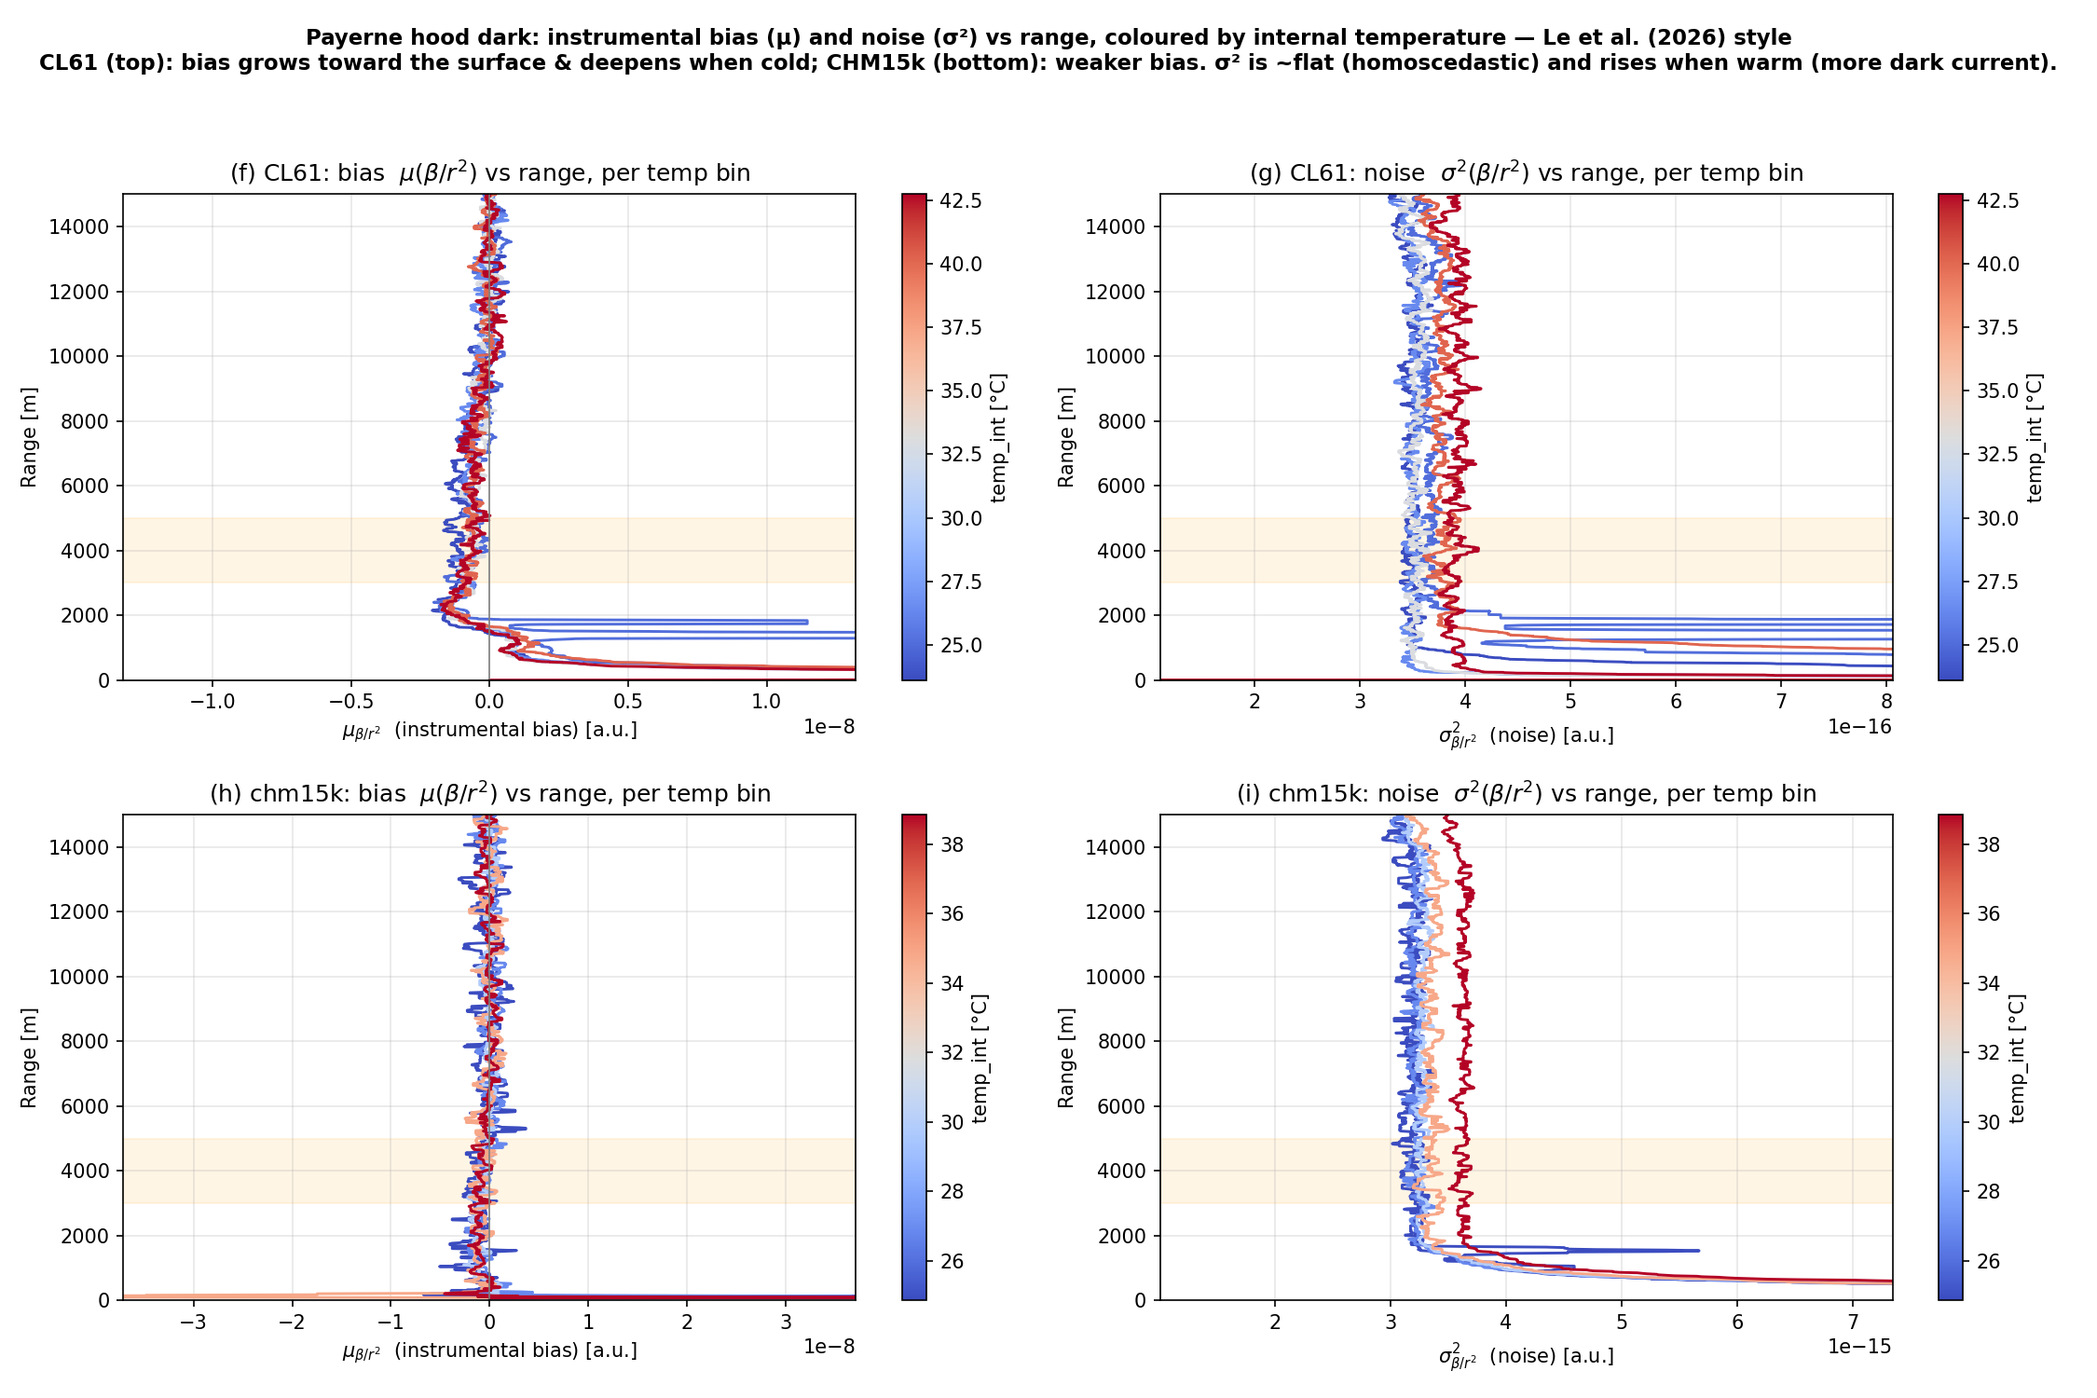
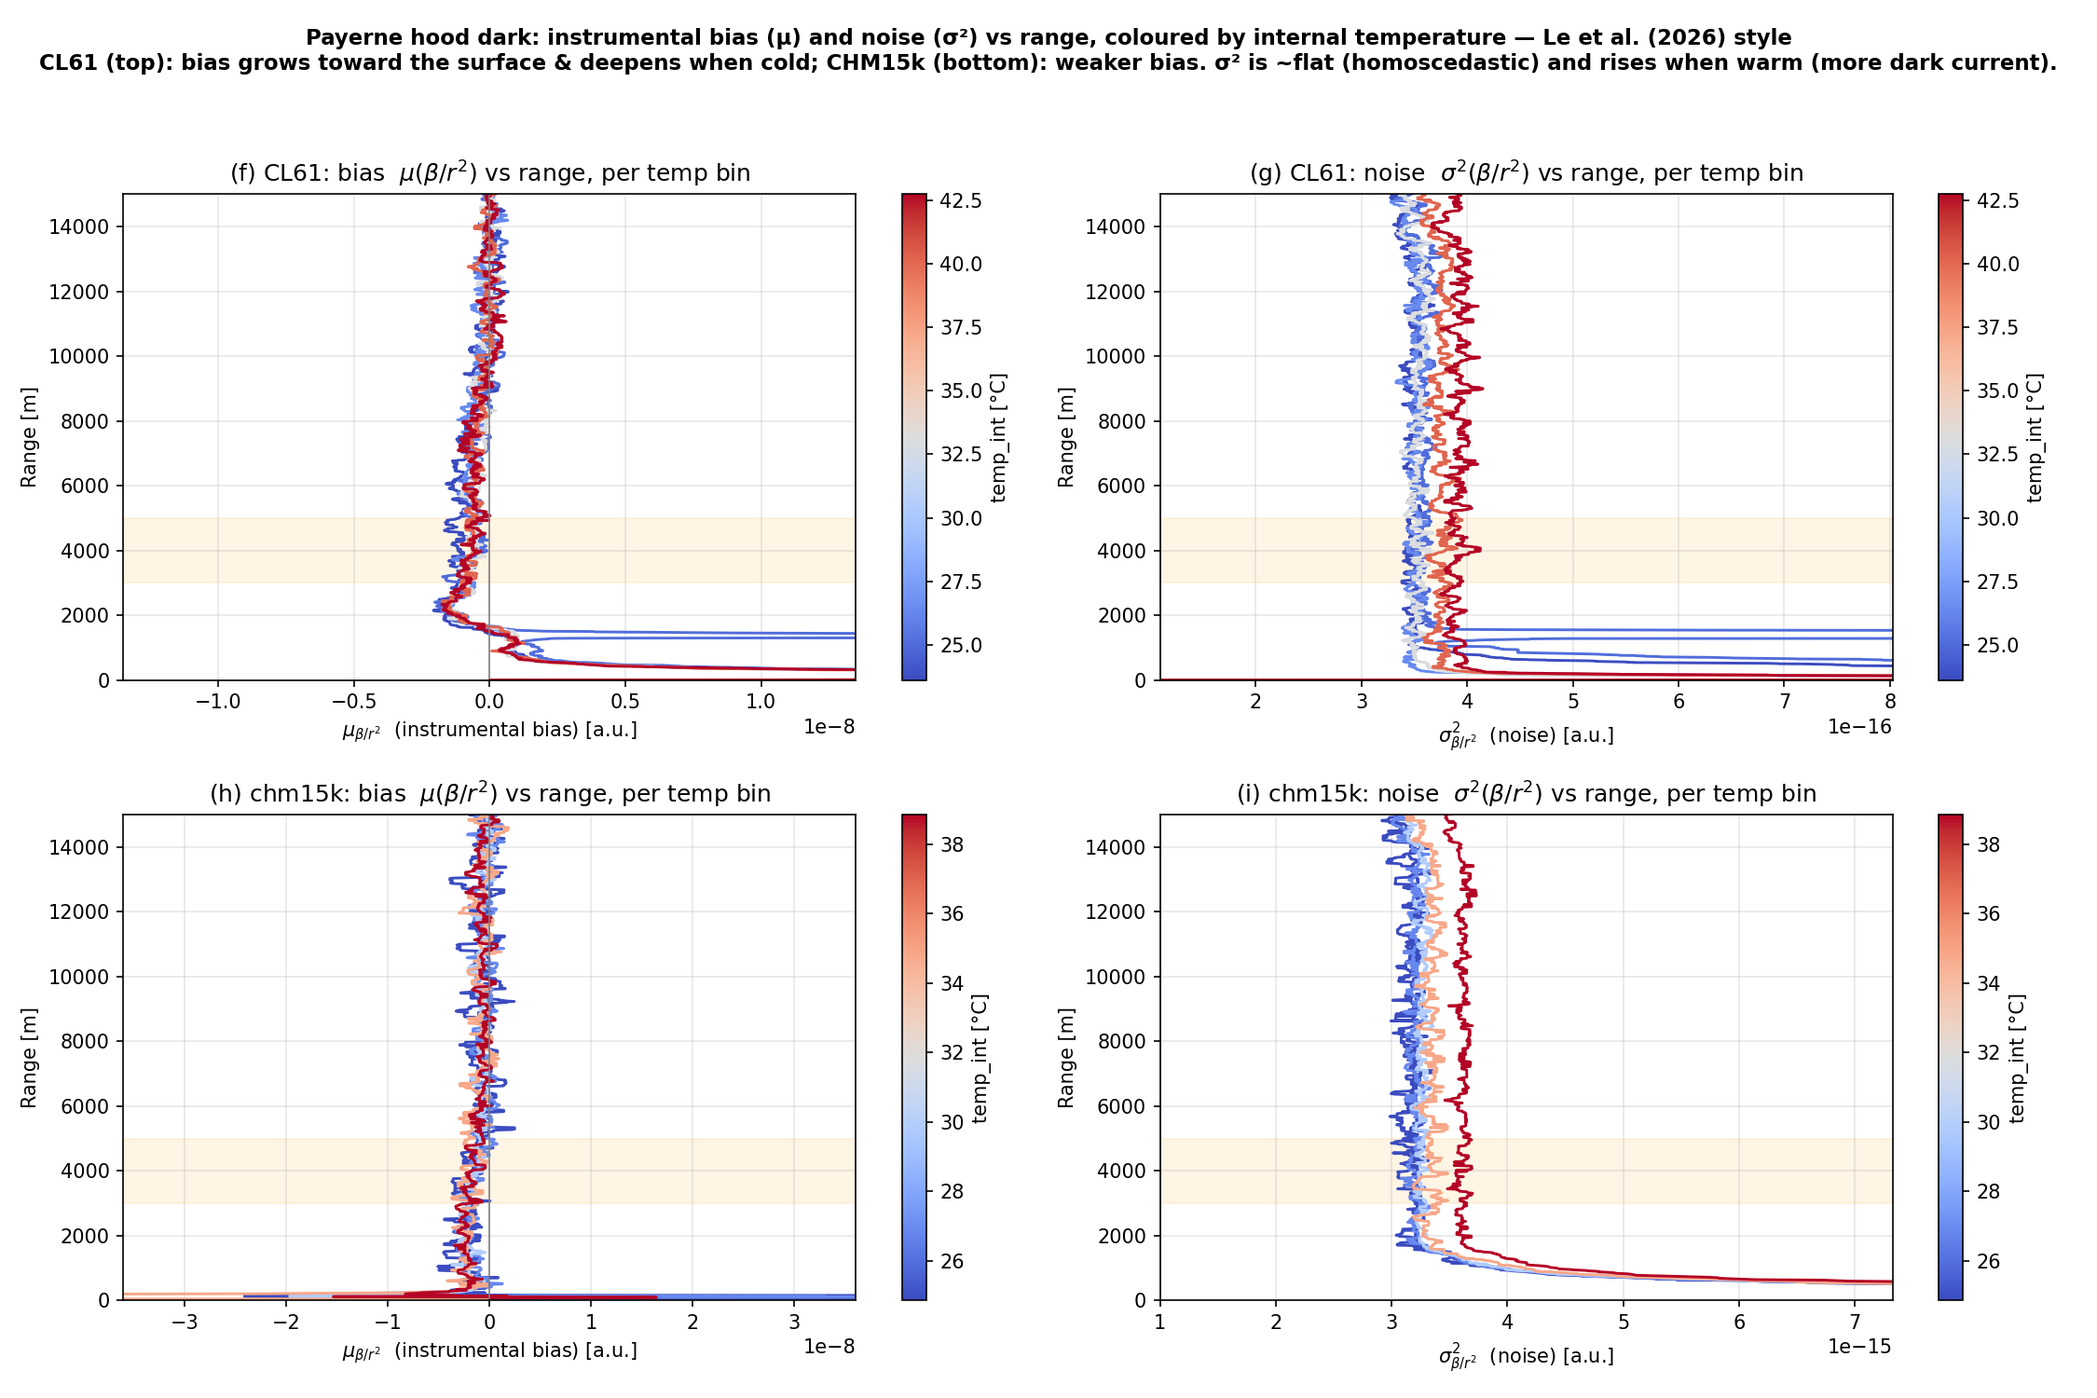
offset correction: CHM15k recal + multi-instrument intercomparison; 9 Jun screen
- Contamination: time-height pcolors (_hood_pcolor) show the hood windows are clean
  except the first ~1 min of each session (hood being placed; CL61 9 Jun caught a
  cloud at 1.3 km, beta_att 435). Added a coherent-return screen (median beta_att
  1.5-4 km > 0.1) before the temperature analysis; the mu/sigma^2 excursions vanish.
- CHM15k recalibrated full-period with its offset (via load_data patch), Kalman-
  smoothed into 0-20000-0-06610_A_rayleigh_offsetcorr CSVs (offset shift +3.6%, i.e.
  within scatter). CL61 offsetcorr series refreshed with the physical model too.
  (_gen_offsetcorr_series reuses raw_rayleigh + the operational kalman bridge.)
- Reproduced the Payerne multi-instrument intercomparison (Mar-May) with both
  offset-corrected channels added (run_paper_validation + _run_payerne_fig):
    CL61 (Rayleigh)            +13.5%  ->  CL61 (Rayleigh, offset-corr)  +1.0%
    CHM15k (Rayleigh, offset-corr)  -7.1%
  Decisive & asymmetric: correcting the CL61 collapses its bias onto the cloud/
  reference agreement (real, correctable bias); correcting the CHM15k moves it AWAY
  (-7.1%) -> its offset is not material. Take-away: correct CL61, not CHM15k.
- report: new sec 1.6 (screen + pcolor) and sec 2.6 (intercomparison, Fig 7).

diff --git a/validation/paper/_hood_pcolor.py b/validation/paper/_hood_pcolor.py
@@ -1,0 +1,75 @@
+# -*- coding: utf-8 -*-
+"""Time-height pcolor of the covered-telescope sessions (CL61 + CHM15k) to check for aerosol/cloud
+contamination or hood on/off transitions inside the 'dark' windows. beta_att in Mm^-1 sr^-1
+(CL61: rcs_0*1e6; CHM15k: rcs_0/5e11*1e6), diverging scale +-0.5 as in the operator MATLAB fig1:
+a covered telescope should be uniform noise; any bright layer/period is contamination."""
+import sys, warnings
+warnings.filterwarnings("ignore")
+sys.path.insert(0, r"C:/Users/hervo/OneDrive/Documents/ALC_rayleigh_calibration")
+from datetime import datetime, timedelta
+from pathlib import Path
+import numpy as np
+from netCDF4 import Dataset
+import matplotlib
+matplotlib.use("Agg")
+import matplotlib.pyplot as plt
+
+L1 = Path("D:/E-PROFILE_L1_2026/0-20000-0-06610")
+SESS = [("12 May", ("2026-05-12 09:17", "2026-05-12 14:58"), ("2026-05-12 09:24", "2026-05-12 14:53")),
+        ("26-27 May (24 h)", ("2026-05-26 11:45", "2026-05-27 13:15"), ("2026-05-26 12:00", "2026-05-27 13:15")),
+        ("9 Jun", ("2026-06-09 09:10", "2026-06-09 11:51"), ("2026-06-09 09:16", "2026-06-09 11:55")),
+        ("23 Jun", ("2026-06-23 10:00", "2026-06-23 12:25"), ("2026-06-23 12:32", "2026-06-23 15:09"))]
+
+def load(ident, t1, t2):
+    days, d = set(), t1
+    while d.date() <= t2.date():
+        days.add(d.strftime("%Y%m%d")); d += timedelta(days=1)
+    X, T, rng = [], [], None
+    for ds in sorted(days):
+        f = L1 / ds[:4] / ds[4:6] / f"L1_0-20000-0-06610_{ident}{ds}.nc"
+        if not f.exists():
+            continue
+        with Dataset(f) as nc:
+            tv = np.asarray(nc.variables["time"][:], "f8")
+            tt = np.array([datetime(1970, 1, 1) + timedelta(days=x) for x in tv])
+            r = np.asarray(nc.variables["range"][:], "f8")
+            x = np.asarray(nc.variables["rcs_0"][:], "f8")
+            if x.shape[0] != tt.size:
+                x = x.T
+        s = (tt >= t1) & (tt <= t2)
+        if s.any():
+            X.append(x[s]); T.append(tt[s]); rng = r
+    return (np.vstack(X), np.concatenate(T), rng) if X else (None, None, None)
+
+fig, ax = plt.subplots(2, 4, figsize=(21, 10))
+print("contamination check: %% of profiles with median beta_att(1-4 km) > 0.15 Mm-1 sr-1")
+for col, (lab, wcl61, wchm) in enumerate(SESS):
+    for row, (inst, ident, CL, win) in enumerate([("CL61", "C", 1.0, wcl61), ("CHM15k", "A", 5e11, wchm)]):
+        t1 = datetime.strptime(win[0], "%Y-%m-%d %H:%M"); t2 = datetime.strptime(win[1], "%Y-%m-%d %H:%M")
+        X, T, rng = load(ident, t1, t2)
+        a = ax[row, col]
+        if X is None:
+            a.set_visible(False); continue
+        beta = (X / CL) * 1e6                                  # Mm^-1 sr^-1
+        hrs = np.array([(t - T[0]).total_seconds() / 3600.0 for t in T])
+        pm = a.pcolormesh(hrs, rng, beta.T, cmap="RdBu_r", vmin=-0.3, vmax=0.3, shading="auto")
+        # contamination flag: a real return at 1-4 km (above the near-field, below the noise floor)
+        band = (rng >= 1000) & (rng <= 4000)
+        prof15 = np.nanmedian(beta[:, band], axis=1)
+        contam = prof15 > 0.15
+        a.plot(hrs[contam], np.full(contam.sum(), 700), "s", ms=3, color="lime", mec="k", mew=0.2)
+        a.set_ylim(0, 6000)
+        a.set_title(f"{inst} — {lab}  ({100*contam.mean():.0f}% contaminated)", fontsize=10, fontweight="bold")
+        if col == 0:
+            a.set_ylabel("Range [m]")
+        if row == 1:
+            a.set_xlabel(f"hours since {T[0]:%m-%d %H:%M} UTC")
+        if col == 3:
+            fig.colorbar(pm, ax=a, label=r"$\beta_{att}$ [Mm$^{-1}$sr$^{-1}$]")
+        print(f"  {inst:7s} {lab:18s}: {100*contam.mean():5.1f}%  (n={X.shape[0]}, {contam.sum()} flagged)")
+fig.suptitle("Terminal-hood sessions — time-height β_att, zoom 0-6 km (green = profiles with a real "
+             "1-4 km return > 0.15 Mm⁻¹sr⁻¹ = aerosol/cloud or hood on/off contamination)",
+             fontweight="bold", fontsize=12)
+fig.tight_layout(rect=(0, 0, 1, 0.96))
+OUT = "C:/DATA/Projects/202606_E-PROFILE_calibration/figs_paper_validation/paper_python/fig_hood_pcolor.png"
+fig.savefig(OUT, dpi=140); print("saved", OUT)

diff --git a/validation/paper/_gen_offsetcorr_series.py b/validation/paper/_gen_offsetcorr_series.py
@@ -1,0 +1,67 @@
+# -*- coding: utf-8 -*-
+"""Generate the offset-corrected Rayleigh calibration series (daily -> Kalman) for the Payerne
+CHM15k (NEW) and CL61 (refresh), by recalibrating the full record with the measured hood offset
+subtracted from rcs_0 in memory (patch load_data), then reusing the operational Kalman bridge and
+the calib CSV format. Writes <key>_offsetcorr_{L1,L2,}.csv into the CALIB dir so
+run_paper_validation can plot them as extra channels. The offset is applied in rcs_0 units:
+CL61 b_phys is Mm^-1 sr^-1 (x1e-6 -> SI); CHM15k b_phys is already in rcs_0 (counts/s.m^2)."""
+import sys, csv, warnings
+warnings.filterwarnings("ignore")
+sys.path.insert(0, r"C:/Users/hervo/OneDrive/Documents/ALC_rayleigh_calibration")
+try:
+    sys.stdout.reconfigure(encoding="utf-8", errors="replace")
+except Exception:
+    pass
+from pathlib import Path
+import numpy as np
+import calibration.rayleigh.calibration as RC
+from validation.paper.calib_benchmark import raw_rayleigh, kalman, OUT, BENCHMARK
+
+D = "C:/DATA/Projects/202606_E-PROFILE_calibration/figs_paper_validation/paper_python/"
+PAY = BENCHMARK["payerne"]; START, END = PAY["start"], PAY["end"]
+CHM = next(c for c in PAY["channels"] if c["itype"] == "CHM15k" and c["calib"] == "rayleigh")
+CL61 = next(c for c in PAY["channels"] if c["itype"] == "CL61" and c["calib"] == "rayleigh")
+print(f"period {START}..{END}")
+
+# offset correction applied in memory (rcs_0 units) via load_data wrapper
+STATE = {"rng": None, "corr": None}
+_orig = RC.load_data
+def _patched(file_list, instrument_type, data_level):
+    d = _orig(file_list, instrument_type, data_level)
+    if d is not None and STATE["corr"] is not None:
+        d.rcs = d.rcs - np.interp(d.range_alc, STATE["rng"], STATE["corr"])[None, :]
+    return d
+RC.load_data = _patched
+
+def write_series(key, dates, C, Cstd):
+    res = kalman(dates, C, Cstd, normalise=True)
+    if res is None:
+        print(f"  {key}: no Kalman series"); return
+    for suffix in ("_L1", "_L2", ""):
+        with open(OUT / f"{key}_offsetcorr{suffix}.csv", "w", newline="", encoding="utf-8") as f:
+            w = csv.writer(f); w.writerow(["time", "C_daily", "C_daily_std", "C_kalman", "C_kalman_std"])
+            w.writerows(res)
+    nk = sum(1 for r in res if np.isfinite(r[3]))
+    ck = [r[3] for r in res if np.isfinite(r[3])]
+    print(f"  {key}_offsetcorr: {len(dates)} nights -> {len(res)} rows ({nk} Kalman), "
+          f"C_kalman {min(ck):.3f}..{max(ck):.3f}")
+
+# ---- CHM15k (NEW): b_phys already in rcs_0 units ----
+chm = np.load(D + "chm15k_b_dark.npz")
+STATE["rng"], STATE["corr"] = chm["rng"].astype(float), chm["b_phys"].astype(float)
+dc, Cc, Sc = raw_rayleigh(CHM, START, END, level="L1")
+print(f"CHM15k corrected: {len(Cc)} nights, median C={np.median(Cc):.3e}" if len(Cc) else "CHM15k: 0 nights")
+STATE["corr"] = None
+dn, Cn, Sn = raw_rayleigh(CHM, START, END, level="L1")     # native, for the shift report
+if len(Cn) and len(Cc):
+    print(f"  CHM15k native median C={np.median(Cn):.3e}  -> offset shift {100*(np.median(Cc)/np.median(Cn)-1):+.1f}%")
+STATE["rng"], STATE["corr"] = chm["rng"].astype(float), chm["b_phys"].astype(float)
+write_series("0-20000-0-06610_A_rayleigh", dc, Cc, Sc)
+
+# ---- CL61 (refresh with the current physical model): b_phys Mm^-1 sr^-1 -> x1e-6 ----
+cl = np.load(D + "cl61_b_dark.npz")
+STATE["rng"], STATE["corr"] = cl["rng"].astype(float), cl["b_phys"].astype(float) * 1e-6
+dc2, Cc2, Sc2 = raw_rayleigh(CL61, START, END, level="L1")
+print(f"CL61 corrected: {len(Cc2)} nights, median C={np.median(Cc2):.3f}" if len(Cc2) else "CL61: 0 nights")
+write_series("0-20000-0-06610_C_rayleigh", dc2, Cc2, Sc2)
+print("GEN_OFFSETCORR_DONE")

diff --git a/validation/paper/_run_payerne_fig.py b/validation/paper/_run_payerne_fig.py
@@ -1,0 +1,28 @@
+# -*- coding: utf-8 -*-
+"""Regenerate ONLY the Payerne multi-instrument intercomparison figure, now including the CHM15k
+(Rayleigh, offset-corr) channel alongside the CL61 (Rayleigh, offset-corr) one, to see whether the
+hood-offset corrections improve the agreement vs the CHM15k (Rayleigh) reference."""
+import sys, warnings
+warnings.filterwarnings("ignore")
+sys.path.insert(0, r"C:/Users/hervo/OneDrive/Documents/ALC_rayleigh_calibration")
+try:
+    sys.stdout.reconfigure(encoding="utf-8", errors="replace")
+except Exception:
+    pass
+from validation.paper import run_paper_validation as RPV
+from validation.paper import figures as FIG
+from validation.paper.calib_benchmark import OUT
+
+R, cfg = RPV.run_station("payerne")
+if R is None:
+    print("no data"); sys.exit(1)
+print("\nchannel                              relbias   med-rel     r    N")
+for k, ch in enumerate(R["channels"]):
+    s = R["stats"][k]
+    ref = "  <-- reference" if k == cfg["referenceChannel"] else ""
+    print(f"  {ch['label']:34s} {s['relbias_pct']:+6.1f}%  {s.get('medrelbias_pct', float('nan')):+6.1f}%  "
+          f"{s['r']:.3f}  {s['n']:6d}{ref}")
+title = "%s (%s)  —  %s to %s" % (RPV.SITE_NAME["payerne"], cfg["wmo"], RPV._d(cfg["start"]), RPV._d(cfg["end"]))
+FIG.fig_multi_alc(R, cfg, OUT / "fig_payerne.png", title)
+print("\n-> fig_payerne.png (", OUT / "fig_payerne.png", ")")
+print("PAYERNE_FIG_DONE")

diff --git a/validation/paper/run_paper_validation.py b/validation/paper/run_paper_validation.py
@@ -59,6 +59,12 @@ def run_station(name):
         chans.append(dict(wmo="0-20000-0-06610", ident="C", calib="rayleigh",
                           label="CL61 (Rayleigh, offset-corr)", itype="CL61",
                           key="0-20000-0-06610_C_rayleigh_offsetcorr"))
+        # CHM15k Rayleigh recalibrated after removing its (photon-counting over-subtraction) hood
+        # offset — to test whether the correction improves the multi-instrument agreement
+        # (cl61_chm15k_offset_correction.md). NB the CHM15k offset is within its calibration scatter.
+        chans.append(dict(wmo="0-20000-0-06610", ident="A", calib="rayleigh",
+                          label="CHM15k (Rayleigh, offset-corr)", itype="CHM15k",
+                          key="0-20000-0-06610_A_rayleigh_offsetcorr"))
     cfg = dict(wmo=sc["wmo"], start=st["start"], end=st["end"], referenceChannel=sc["ref"],
                channels=chans, lambda_target=sc["target"], alpha=1.0, zMin=500, zMax=3000,
                calibLevel="L1")   # native L1 (binned, eprof_v2 + fixed cloud); falls back to L2 where no L1

diff --git a/validation/paper/_hood_temperature_leetal.py b/validation/paper/_hood_temperature_leetal.py
@@ -55,6 +55,14 @@ for row, (inst, (ident, CL, wins)) in enumerate(INST.items()):
         if X is not None:
             Xs.append(X); Ts.append(Ti)
     X = np.vstack(Xs); Ti = np.concatenate(Ts); zkm = rng / 1000.0
+    # contamination screen: reject profiles with a COHERENT real return (hood on/off transitions,
+    # cloud/aerosol leaking in before full coverage). Use the MEDIAN over a mid-band (robust to the
+    # photon-counting single-gate spikes that a max-based screen over-flags): dark ~0, a layer >> 0.1.
+    betaMm = (X / CL) * 1e6
+    keep = np.nanmedian(betaMm[:, (rng >= 1500) & (rng <= 4000)], axis=1) < 0.1
+    nrej = (~keep).sum()
+    X, Ti = X[keep], Ti[keep]
+    print(f"  {inst}: screened {nrej} contaminated profiles ({100*nrej/keep.size:.1f}%)")
     P = (X / CL) / zkm[None, :] ** 2                       # beta/r^2 (per-profile), a.u.
     edges = np.quantile(Ti, np.linspace(0, 1, NB + 1))
     norm = plt.Normalize(np.median(Ti[Ti <= edges[1]]), np.median(Ti[Ti >= edges[-2]]))

diff --git a/doc/reports/cl61_chm15k_offset_correction.md b/doc/reports/cl61_chm15k_offset_correction.md
@@ -72,6 +72,20 @@ per bin, the **instrumental bias** μ(β/r²) (per-gate mean) and the **noise** 
 variance) are plotted vs range, coloured by temperature — the decomposition used by Le et al. (2026,
 their fig. f/g).
 
+### 1.6 Contamination screen
+Time-height pcolors of every session (`_hood_pcolor.py`) confirm the covered windows are otherwise
+uniform noise. The one exception is the **first ~1 minute** of a session, when the hood is being
+placed and the still-open telescope catches real atmosphere (e.g. CL61 9 Jun 09:10–09:11 saw a
+cloud/aerosol layer at ~1.3 km, β_att up to 435 vs ~1.5 for clean dark). Because these leak into the
+mean-based μ (not the median-based offset models), profiles with a **coherent** mid-range return
+(median β_att over 1.5–4 km > 0.1 Mm⁻¹sr⁻¹ — robust to photon-counting single-gate spikes) are
+screened out before the temperature analysis (CL61 0.1 %, CHM15k 5.4 %).
+
+![hood pcolor](figs_paper_report/fig_hood_pcolor.png)
+*Figure 0 — Time-height β_att of the four hood sessions (0–6 km), CL61 (top) and CHM15k (bottom);
+green = screened profiles. The windows are uniform dark noise apart from the hood-placement
+transition at each session start.*
+
 ---
 
 ## 2. Results
@@ -152,6 +166,37 @@ Two temperature effects, cleanly separated by this decomposition:
 - **Bias μ** is the offset; its amplitude has a modest temperature dependence (within a single
   session, cold/warm ≈ ×1.13 at 3–6 km; see companion §1f), sitting in the CL61 undershoot
   *amplitude* while the RC time constant τ_u stays fixed.
+
+### 2.6 Multi-instrument intercomparison — does the correction improve agreement?
+
+Regenerating the Payerne multi-instrument intercomparison (Mar–May 2026, β_att vs the CHM15k
+Rayleigh reference over 500–3000 m) with the offset-corrected Kalman series added as extra channels
+(`_gen_offsetcorr_series.py` → `_run_payerne_fig.py`) tests the corrections end-to-end:
+
+| channel | relbias vs CHM15k (Rayleigh) | r |
+|---|---|---|
+| CL61 (cloud) — trusted anchor | −0.6 % | 0.98 |
+| CL61 (Rayleigh) | +13.5 % | 0.99 |
+| **CL61 (Rayleigh, offset-corr)** | **+1.0 %** | 0.98 |
+| **CHM15k (Rayleigh, offset-corr)** | **−7.1 %** | 1.00 |
+
+The result is decisive and **asymmetric**:
+- **Correcting the CL61 works:** its Rayleigh bias collapses from **+13.5 % to +1.0 %**, into
+  agreement with both the CL61 cloud method (−0.6 %) and the CHM15k reference. Full-record
+  confirmation that the CL61 offset is a real, correctable calibration bias.
+- **Correcting the CHM15k does not help — it hurts:** applying its (within-scatter) offset shifts the
+  CHM15k **−7.1 % away** from the cloud-anchored agreement. There was no real bias to remove, so the
+  "correction" only degrades a sound reference — the intercomparison-level confirmation of §3.
+
+![payerne intercomparison](figs_paper_report/fig_payerne_intercompare_corr.png)
+*Figure 7 — Payerne multi-instrument intercomparison (Mar–May 2026) with the offset-corrected
+channels added. (a) median profiles; (b) scatter and (c) difference vs the CHM15k Rayleigh
+reference; (d–g) time-height β_att. CL61 (Rayleigh, offset-corr) collapses onto the cloud/reference
+agreement; CHM15k (Rayleigh, offset-corr) moves away from it.*
+
+**Operational take-away:** apply the offset correction to the **CL61** (and, by the same mechanism,
+CL51/CL31 where a molecular signal exists); do **not** apply it to the CHM15k, whose calibration is
+already sound.
 
 ---
 
